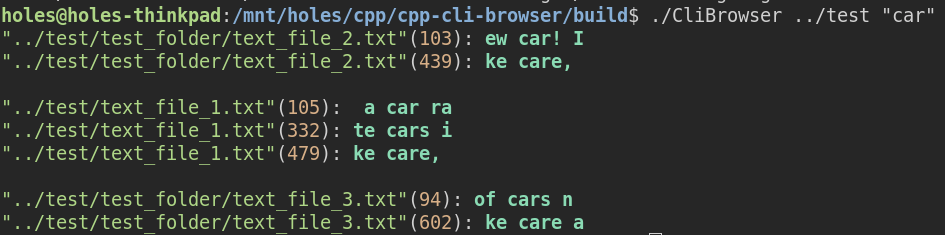
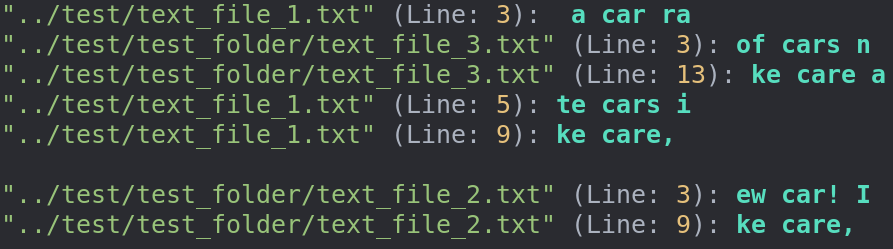
Example

diff --git a/src/search_handler/search_handler.cpp b/src/search_handler/search_handler.cpp
@@ -73,7 +73,9 @@ void SearchHandler::searchInFileBuffer(
     fileStream.read(buffer, bufferSize);
     size_t bytesRead = fileStream.gcount();
 
+    int lineCnt = 1;
     for (size_t i = 0; i < bytesRead; ++i) {
+      if (buffer[i] == '\n') lineCnt++;
       if (buffer[i] == search[0] && search == std::string(&buffer[i], searchSize)) {
         size_t start = std::max(0, int(i) - int(prefixSize));
 
@@ -85,7 +87,7 @@ void SearchHandler::searchInFileBuffer(
         std::string foundString = prefix + search + suffix;
 
         std::cout << GREEN << filePath << RESET
-          << "(" << YELLOW << i << RESET << "): "
+          << " (Line: " << YELLOW << lineCnt << RESET << "): "
           << CYAN << foundString << RESET 
           << std::endl;
       }
